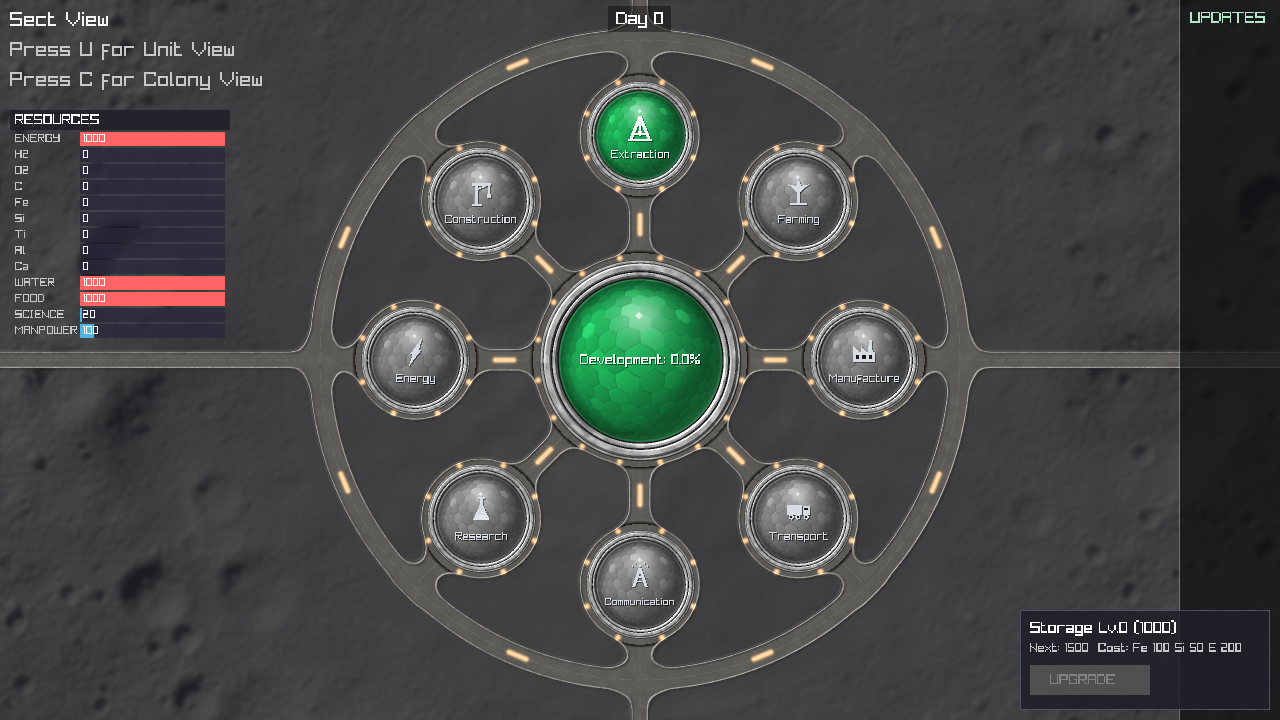
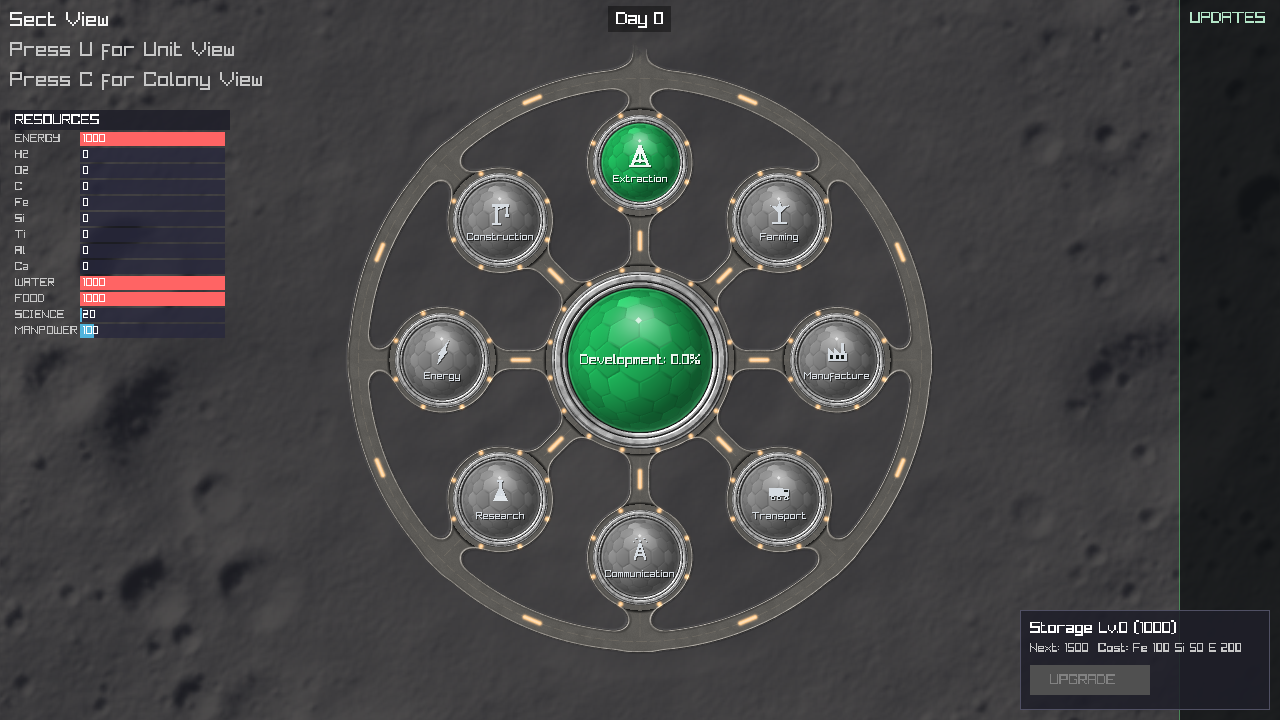
Sect: one north exit road fading into the ground, and concept-like glass
Exit roads (the user): keep only the north one, shorter, fading into the
ground at its end. Two more port extensions, off by default so the JS
parity gate still passes: exitRoads (mask N=1 W=2 S=4 E=8, 15 = the JS)
and exitFade (the last N px fade out along a noisy edge, so the road
dissolves rather than stopping on a line; RoadField now reports which
primitive is nearest so the fade follows the right road).

The fade has to be on screen, and at 1.25 km the ring road's top edge
was 29 px from the top of a 720 px screen, under the "Day 0" label. So
SECT_RING_ROAD_KM is now 1.10 km; the levelled site follows it and
test_sect_site.cpp still holds them together. The road runs 62 px past
the ring's centre line and fades over its last 40 (px at 1254), ending
just short of the label.

Glass (the user): less rim shadow, more curvature. edgeShadow 0.3 -> 0.06
(width 0.25 -> 0.12), limbDark 0.42 -> 0.2. Curvature from hexLens 0.85
with hexCells 0.08, not hexCurve: hexCurve is a power law and above ~1.5
balloons the centre cell and drops straight to slivers (tried 1.9-2.2);
perspective shrinks cells gradually, as the concept does. Tuned against
the concept's domes, crop against crop; glass fields added to
DomeForgeSetParam for that.

Parity gate identical to the JS; ctest 182/182.

Claude-Session: https://claude.ai/code/session_01HKSoiCsZ5ZbTeLNcKMBjXE

Changed region(s): [[0.0, 0.0, 0.9375, 1.0]]

diff --git a/src/DomeForge/domeforge_base.cpp b/src/DomeForge/domeforge_base.cpp
@@ -39,6 +39,7 @@ namespace
         double d, t, perp;
         int isDisc;
         double dDisc;
+        int road;               // port: index of the nearest road primitive (-1 none), for the fade extension
     };
 
     // returns [dUnion, tAlong, perp, isDisc, dDisc]: tAlong/perp belong to the nearest road primitive, dDisc is the
@@ -46,9 +47,10 @@ namespace
     void RoadField(double x, double y, const std::vector<Prep>& prims, double F, double FD, Field& out)
     {
         double d = 1e9, best = 1e9, t = 0, perp = 0, dRoad = 1e9, dDisc = 1e9;
-        int isDisc = 0;
+        int isDisc = 0, road = -1, idx = -1;
         for (const Prep& q : prims)
         {
+            idx++;
             const DomeForgePrim& p = q.p;
             double dp, tt = 0, pp = 0;
             if (p.t == DomeForgePrim::SEG)
@@ -82,6 +84,7 @@ namespace
                     dRoad = dp;
                     t = tt;
                     perp = pp;
+                    road = idx;
                 }
             }
             else d = d > 1e8 ? dp : Smin(d, dp, FD);
@@ -91,7 +94,7 @@ namespace
                 isDisc = p.t == DomeForgePrim::DISC ? 1 : 0;
             }
         }
-        out = {d, t, perp, isDisc, dDisc};
+        out = {d, t, perp, isDisc, dDisc, road};
     }
 
     std::vector<Prep> PrepPrims(const std::vector<DomeForgePrim>& prims)
@@ -212,6 +215,17 @@ namespace
                 RoadField(X, Y, P, F, FD, f);
                 const double d = f.d;
                 if (d > bankW + aa) continue;
+                // Extension: an exit road fades into the ground over its last `fade` px,
+                // along a noisy edge so it dissolves rather than stopping on a line.
+                double fadeK = 1.0;
+                if (f.road >= 0 && P[f.road].p.fade > 0)
+                {
+                    const Prep& q = P[f.road];
+                    const double fd = q.p.fade;
+                    const double wob = (PatchNoise(X, Y, 9 * scale, seed + 40, 0.6) - 0.5) * fd * 0.5;
+                    fadeK = 1 - Sstep(q.len - fd, q.len - 0.15 * fd, f.t + wob);
+                    if (fadeK <= 0) continue;
+                }
                 const size_t o = ((size_t)y * W + x) * 4;
                 // outward normal of the outline (needed for the ridge and the embankment)
                 RoadField(X + e, Y, P, F, FD, fx);
@@ -232,7 +246,7 @@ namespace
                     img.rgba[o] = v;
                     img.rgba[o + 1] = v;
                     img.rgba[o + 2] = v;
-                    img.rgba[o + 3] = ToByte(Clamp(al, 0.0, 1.0) * 255);
+                    img.rgba[o + 3] = ToByte(Clamp(al * fadeK, 0.0, 1.0) * 255);
                     continue;
                 }
                 const double cov = 1 - Sstep(-aa * 0.5, aa * 0.5, d);
@@ -308,7 +322,7 @@ namespace
                 img.rgba[o] = ToByte(Clamp(R, 0.0, 1.0) * 255);
                 img.rgba[o + 1] = ToByte(Clamp(G, 0.0, 1.0) * 255);
                 img.rgba[o + 2] = ToByte(Clamp(B, 0.0, 1.0) * 255);
-                img.rgba[o + 3] = ToByte(cov * 255);
+                img.rgba[o + 3] = ToByte(cov * fadeK * 255);
             }
         }
     }
@@ -493,7 +507,8 @@ DomeForgeLayout DomeForgeMakeLayout(const DomeForgeConfig& cfg, double scale)
             b.w = cfg.roadW * s;
             lay.prims.push_back(b);
         }
-        if (cardinal && cfg.spokesBeyond)
+        // extension: exitRoads picks which cardinals get one (i 0,2,4,6 = N,W,S,E)
+        if (cardinal && cfg.spokesBeyond && (cfg.exitRoads & (1 << (i / 2))))
         {
             DomeForgePrim o;
             o.t = DomeForgePrim::SEG;
@@ -503,6 +518,7 @@ DomeForgeLayout DomeForgeMakeLayout(const DomeForgeConfig& cfg, double scale)
             o.bx = cX + reach * ca;
             o.by = cY + reach * sa;
             o.w = cfg.roadOuterW * s;
+            o.fade = cfg.exitFade * s;
             lay.prims.push_back(o);
         }
     }
@@ -636,6 +652,16 @@ bool DomeForgeSetParam(DomeForgeConfig& c, const std::string& key, const std::st
         {"roadLightGlowR", &c.roadLightGlowR}, {"roadLightGlow", &c.roadLightGlow},
         {"lightGlow", &c.lightGlow}, {"lightGlowR", &c.lightGlowR}, {"lightSize", &c.lightSize},
         {"lightAz", &c.lightAz}, {"lightEl", &c.lightEl},
+        // glass
+        {"hexCells", &c.hexCells}, {"hexCurve", &c.hexCurve}, {"hexLens", &c.hexLens},
+        {"facetShade", &c.facetShade}, {"hexLine", &c.hexLine}, {"hexLineDark", &c.hexLineDark},
+        {"hexLineLight", &c.hexLineLight}, {"facetVar", &c.facetVar}, {"facetBevel", &c.facetBevel},
+        {"litBase", &c.litBase}, {"litNear", &c.litNear}, {"litAmount", &c.litAmount},
+        {"ambient", &c.ambient}, {"diffuse", &c.diffuse}, {"hlX", &c.hlX}, {"hlY", &c.hlY},
+        {"shininess", &c.shininess}, {"specInt", &c.specInt}, {"specWhite", &c.specWhite},
+        {"glintSize", &c.glintSize}, {"glintStrength", &c.glintStrength},
+        {"rimInt", &c.rimInt}, {"rimPow", &c.rimPow}, {"limbDark", &c.limbDark}, {"limbPow", &c.limbPow},
+        {"edgeShadow", &c.edgeShadow}, {"edgeShadowW", &c.edgeShadowW}, {"edgeLine", &c.edgeLine},
     };
     for (const D& d : doubles)
         if (key == d.k) { d.p[0] = std::atof(v.c_str()); return true; }
@@ -649,6 +675,8 @@ bool DomeForgeSetParam(DomeForgeConfig& c, const std::string& key, const std::st
     if (key == "coreCollarLights") { c.coreCollarLights = std::atoi(v.c_str()); return true; }
     if (key == "collarLightSize") { c.collarLightSize = std::atof(v.c_str()); return true; }
     if (key == "spokesBeyondLen") { c.spokesBeyondLen = std::atof(v.c_str()); return true; }
+    if (key == "exitRoads") { c.exitRoads = std::atoi(v.c_str()); return true; }
+    if (key == "exitFade") { c.exitFade = std::atof(v.c_str()); return true; }
     struct C { const char* k; DomeForgeRgb* p; };
     const C colours[] = {{"roadColor", &c.roadColor}, {"curbColor", &c.curbColor}, {"laneColor", &c.laneColor},
                          {"lightColor", &c.lightColor}, {"groundColor", &c.groundColor}, {"color", &c.color},

diff --git a/src/Sect/sect_art.cpp b/src/Sect/sect_art.cpp
@@ -68,9 +68,6 @@ namespace
         g_set.screenH = screenH;
         g_set.cfg = BaseConfig();
         const double s = SECT_RING_ROAD_KM * pxPerKm / g_set.cfg.ringRoadR;
-        // The cardinal roads leave the base and run off the edges of the
-        // screen, as they run off the edges of the concept art.
-        g_set.cfg.spokesBeyondLen = (std::max(screenW, screenH) * 0.5 / s - g_set.cfg.ringRoadR) + 40.0;
         g_set.lay = DomeForgeMakeLayout(g_set.cfg, s * 1254.0 / g_set.cfg.baseSize);
         g_set.items.push_back({Piece::ROADS, -1});
         g_set.items.push_back({Piece::CORE, -1});
@@ -180,13 +177,25 @@ namespace SectArt
         // Junctions flare: spokes into the ring, and into each dome's collar.
         cfg.fillet = 34.0;
         cfg.filletDome = 30.0;
-        // Short road stubs past the ring at the four cardinal points.
+        // One exit road, north, leaving the ring and fading into the ground.
         cfg.spokesBeyond = true;
+        cfg.exitRoads = 1;          // N only (bits N=1 W=2 S=4 E=8)
         cfg.roadOuterW = 26.0;
-        cfg.spokesBeyondLen = 60.0;
+        cfg.spokesBeyondLen = 62.0;
+        cfg.exitFade = 40.0;
         // Roads meet a collar of road round each dome, not socket loops.
         cfg.socketOn = false;
         cfg.domeCollar = 10.0;
+        // Glass (the user, against the concept): stronger curvature -- big cells
+        // in the middle shrinking smoothly toward the rim -- and much less
+        // shadow round the edge. The curvature comes from the perspective lens,
+        // not hexCurve: hexCurve is a power law, and above ~1.5 it balloons the
+        // centre cell and drops straight to slivers.
+        cfg.hexLens = 0.85;
+        cfg.hexCells = 0.08;
+        cfg.edgeShadow = 0.06;
+        cfg.edgeShadowW = 0.12;
+        cfg.limbDark = 0.2;
         // Lights sit on the roads: bars on the centre line, lamps round the collars.
         cfg.roadLights = true;
         cfg.roadLightLen = 30.0;

diff --git a/src/DomeForge/domeforge.h b/src/DomeForge/domeforge.h
@@ -137,6 +137,8 @@ struct DomeForgeConfig
     int coreCollarLights = 0;       // ... and round the core's
     double collarLightSize = 3.0;   // px at 1254, their diameter
     double spokesBeyondLen = 0.0;   // px at 1254 past the ring; 0 = to the base's edge (the JS)
+    int exitRoads = 15;             // which of those: bits N=1 W=2 S=4 E=8 (15 = all four, the JS)
+    double exitFade = 0.0;          // px at 1254: the exit roads fade into the ground at their end
 };
 
 // Set one config field by its JS name ("roadW", "roadColor", "laneOn", ...),
@@ -164,6 +166,7 @@ struct DomeForgePrim
 {
     enum Type { SEG, RING, DISC } t = SEG;
     double ax = 0, ay = 0, bx = 0, by = 0, w = 0;   // SEG
+    double fade = 0;            // SEG, extension: fade into the ground over this many px before b
     double cx = 0, cy = 0, r = 0;                   // RING (w too) / DISC
 };
 

diff --git a/src/TerrainGen/terrain_synthesis.h b/src/TerrainGen/terrain_synthesis.h
@@ -138,7 +138,7 @@ struct TerrainSiteDisturbance
 // The sect base's physical size: the ring road's centre line is this far from
 // the sect centre. The sect view draws the DomeForge base to this scale
 // (src/Sect/sect_art.cpp), so the art and the ground under it agree.
-constexpr float SECT_RING_ROAD_KM = 1.25f;
+constexpr float SECT_RING_ROAD_KM = 1.10f;
 
 // The site disturbance for the 5 km (sect) level, from the base's layout:
 // dome positions, dome sizes and the footprint all follow SECT_RING_ROAD_KM

diff --git a/docs/design/sect-view/domeforge-study.md b/docs/design/sect-view/domeforge-study.md
@@ -145,9 +145,9 @@ arithmetic is shared rather than approximated:
 | Ground levelled under the base | `SectLevelSite` + footprint in `terrain_synthesis.{h,cpp}` and `terrain_gpu.cpp` | §8 |
 | Old dome stations retired | `docs/graveyard.md` §11 | |
 
-Scale: the ring road's centre line is `SECT_RING_ROAD_KM` = 1.25 km from the
-sect centre, on the same 5 km ground the sect view cover-fits to the screen.
-That reproduces the old on-screen size at 1280x720, and it means the art, the
+Scale: the ring road's centre line is `SECT_RING_ROAD_KM` from the sect
+centre (1.25 km at first; 1.10 km since §6c made room for the north road), on
+the same 5 km ground the sect view cover-fits to the screen. That means the art, the
 hit tests and the site levelling all agree about where the base is. DomeForge
 files are compiled `-O2` in every build type (a debug build bakes ~5x slower
 otherwise).
@@ -177,9 +177,9 @@ Most of that is DomeForge's own parameters, set in `SectArt::BaseConfig()`
 lane, dome sizes, sockets off). The rest are **extensions in the port**,
 off by default so `domeforge_diff.sh` still matches the JS exactly:
 `domeCollar`, `roadLights` (+ `ringLights`, `collarLights`,
-`coreCollarLights`), and `spokesBeyondLen`. In the game the road layer
-covers the whole screen, so the cardinal roads leave the screen as they
-leave the concept. It was tuned crop against crop at the same scale with
+`coreCollarLights`), and `spokesBeyondLen`. The road layer is screen-sized,
+so roads can leave the base (§6c keeps only the north one). It was tuned
+crop against crop at the same scale with
 `domeforge_render --set key=value` (any field, by its JS name).
 
 ![concept | tuned | DomeForge default](roads-tuning.png)
@@ -196,6 +196,32 @@ darker than the ground instead of lighter.
 `tests/test_sect_site.cpp` now holds the levelled site to the art's layout
 (ring road, dome ring, core, footprint), since the dome sizes moved and the
 two once drifted apart.
+
+## 6c. One exit road, and the glass (the user, 2026-09-25)
+
+**Exit roads.** Only the north one stays: shorter, and fading into the
+ground at its end. Two more port extensions, off by default:
+`exitRoads` (a mask, N=1 W=2 S=4 E=8; 15 = all four, the JS) and
+`exitFade` (the road's last N px fade out, along a noisy edge so it
+dissolves instead of stopping on a line). The fade has to happen on
+screen, and at 1.25 km the ring road's top edge sat 29 px from the top of a
+720 px screen, under the "Day 0" label. So the base shrank to
+`SECT_RING_ROAD_KM` = 1.10 km (the site levelling follows it, and
+`test_sect_site.cpp` checks). The road runs 62 px past the ring's centre
+line and fades over its last 40 (px at 1254), ending just short of the label.
+
+**Glass.** Less shadow round the rim, and more curvature: big cells in the
+middle shrinking toward the rim. `edgeShadow` 0.3 → 0.06 (width 0.25 →
+0.12) and `limbDark` 0.42 → 0.2 take the rim shadow down. The curvature
+comes from **`hexLens` 0.85** (perspective; `hexCells` 0.08), **not
+`hexCurve`**. `hexCurve` raises the surface angle to a power, and above
+about 1.5 it balloons the centre cell and drops straight to slivers
+(tried: 1.9-2.2). Perspective shrinks the cells gradually, which is what the
+concept shows.
+
+![concept | tuned | before](glass-concept-tuned-before.png)
+
+*Green unit, grey unit and core: concept | tuned | before.*
 
 ## 7. 3D view: sized, scaffolded, not built
 
@@ -237,8 +263,8 @@ outside the ring road**, with the ground under the base untouched.
 What it is now:
 
 - `SectLevelSite` takes the 5 km level's geometry from the base's layout
-  (dome ring 0.876 km, core and its collar 0.419 km, footprint to the ring
-  road's outer kerb, 1.30 km).
+  (the dome ring, the core and its collar, and a footprint out to the ring
+  road's outer kerb -- all in proportion to `SECT_RING_ROAD_KM`).
 - Inside the footprint the ground is levelled much further (elevation 0.92,
   tone 0.50) and the site's own undulation and roughness are calmed by 0.60.
   It fades back to the site treatment over 0.30 km: no edge.

diff --git a/prototypes/planet_visuals/SITE_SYNTHESIS.md b/prototypes/planet_visuals/SITE_SYNTHESIS.md
@@ -308,7 +308,7 @@ The user asked for "a feel of levelled ground immediately under the site, as
 you'd expect at a construction site". Done without reopening the platform:
 
 - The sect level (5 km) now takes its site geometry from the base's real
-  layout (`SectLevelSite`, ring road 1.25 km). The old 0.63x of the colony
+  layout (`SectLevelSite`, ring road `SECT_RING_ROAD_KM`, now 1.10 km). The old 0.63x of the colony
   geometry measured out **outside** the ring road in the sect view.
 - Inside the base's footprint the level-off goes much further (elevation
   0.92, tone 0.50, the working calmed by 0.60), fading back to the site's

diff --git a/CLAUDE.md b/CLAUDE.md
@@ -319,7 +319,7 @@ partially — not a platform) and then worked with undulations plus
 alterations around each dome. A graded construction platform was tried
 and rejected; see SITE_SYNTHESIS.md before re-proposing one. At the sect
 level the geometry comes from the base's real layout (`SectLevelSite`, ring
-road `SECT_RING_ROAD_KM` = 1.25 km) and the base's footprint is levelled much
+road `SECT_RING_ROAD_KM` = 1.10 km) and the base's footprint is levelled much
 further -- relief goes, regolith grain stays, no edge
 (`docs/design/sect-view/domeforge-study.md` §8).
 

diff --git a/docs/design/sect-view/README.md b/docs/design/sect-view/README.md
@@ -25,7 +25,7 @@ with entry rails leading off-screen.
   `src/DomeForge/` and baked once per game by `src/Sect/sect_art.cpp`
 - Green glass = unit on, grey = off; unit glyph + label on the glass
 - Kerbed roads filleted into the dome rims, socket lights; no entry rails
-- Drawn at its real size on the ground (ring road 1.25 km from the centre),
+- Drawn at its real size on the ground (ring road 1.10 km from the centre),
   over terrain levelled under the base's footprint
 - The previous art (ray-shaded dome stations) is recorded in
   `docs/graveyard.md` §11
